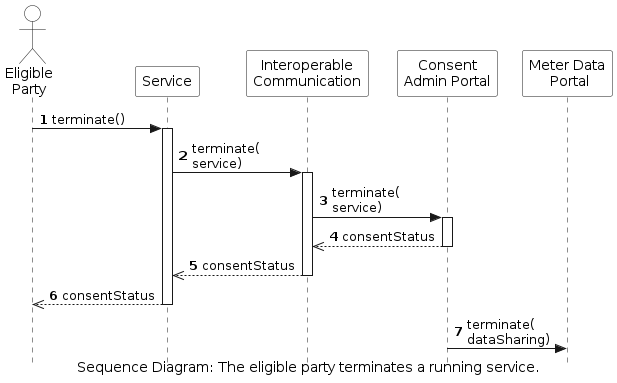
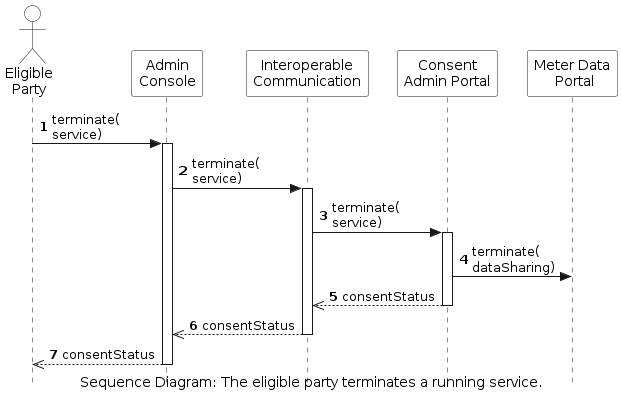
Add description of workflows

diff --git a/arc42/06-runtime-view/service-termination/service-termination.md b/arc42/06-runtime-view/service-termination/service-termination.md
@@ -16,5 +16,10 @@ The workflow of an eligible party that terminates an active service is shown bel
 
 This workflow includes the following steps:
 
-1. 
-1.
+1. The eligible party accesses the admin console and clicks to terminate the service.
+1. The admin console forwards this to the Interoperable Communication.
+1. The Interoperable communication sends a request to terminate the service to the consent administrator.
+1. The consent administrator stops the data sharing from the meter data administrator.
+1. The status of the consent is returned to the Interoperable communication.
+1. The status of the consent is returned to the Admin Console.
+1. The status of the consent is returned to the eligible party.

diff --git a/arc42/06-runtime-view/consent-revocation/consent-revocation.md b/arc42/06-runtime-view/consent-revocation/consent-revocation.md
@@ -15,5 +15,9 @@ The workflow of a consumer that revokes their consent from an eligible party for
 
 This workflow includes the following steps:
 
-1. 
-1.
+1. The consumer logs in to the website of the consent administrator.
+1. The consumer clicks to revoke the consent of a specific eligible party.
+1. The consent administrator revokes the consent.
+1. The consent administrator notifies the Interoperable Communication about the revocation of the consent.
+1. The consent administrator responds to the consumer that the consent has been revoked.
+1. The Interoperable Communication notifies the service that the consent has been revoked.
